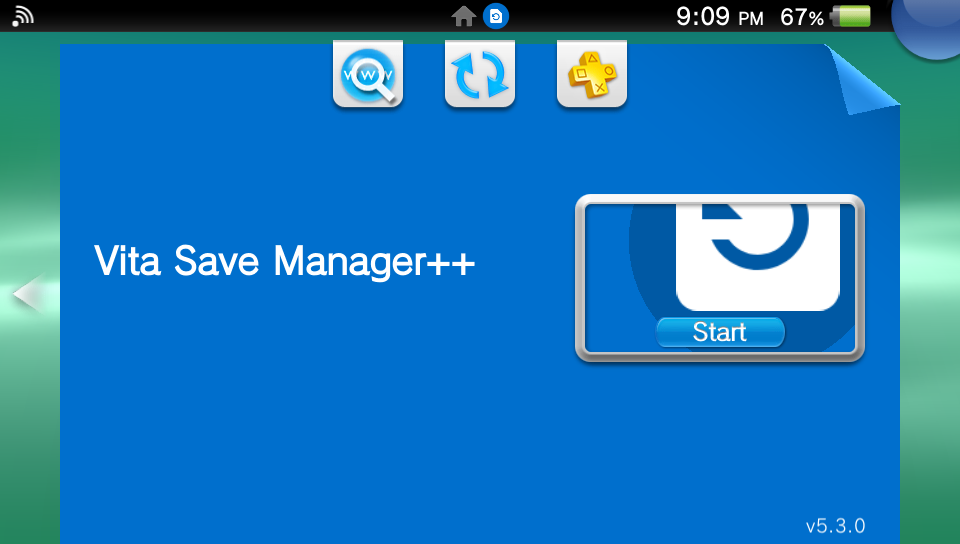
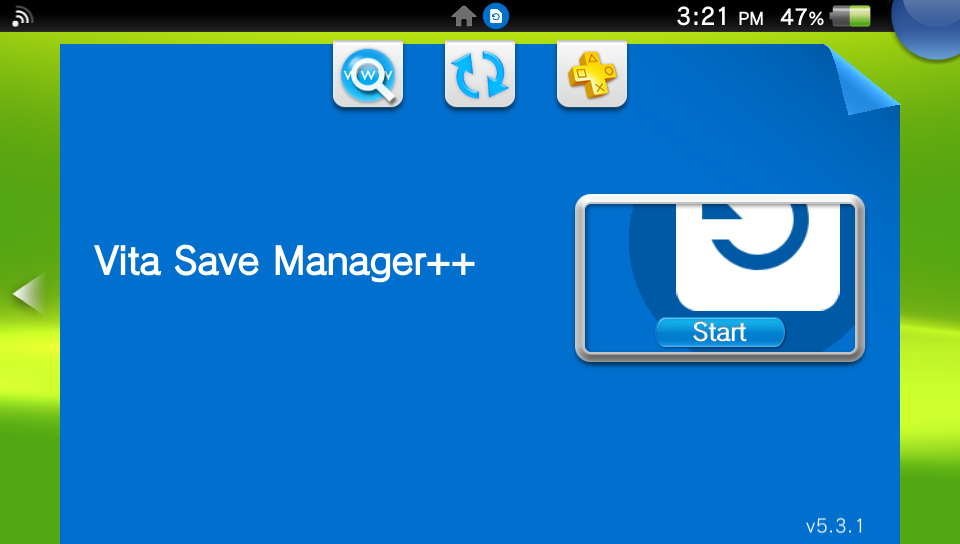
Update (v5.3.1)

Changed region(s): [[0.0, 0.0, 1.0, 1.0], [0.875, 0.9375, 0.9062, 0.9688]]

diff --git a/CHANGELOG.md b/CHANGELOG.md
@@ -1,3 +1,6 @@
+## 5.3.1
+- Add config for save override (homebrew paths)
+
 ## 5.3.0
 - Add save device support
 - Add few more homebrew save paths
